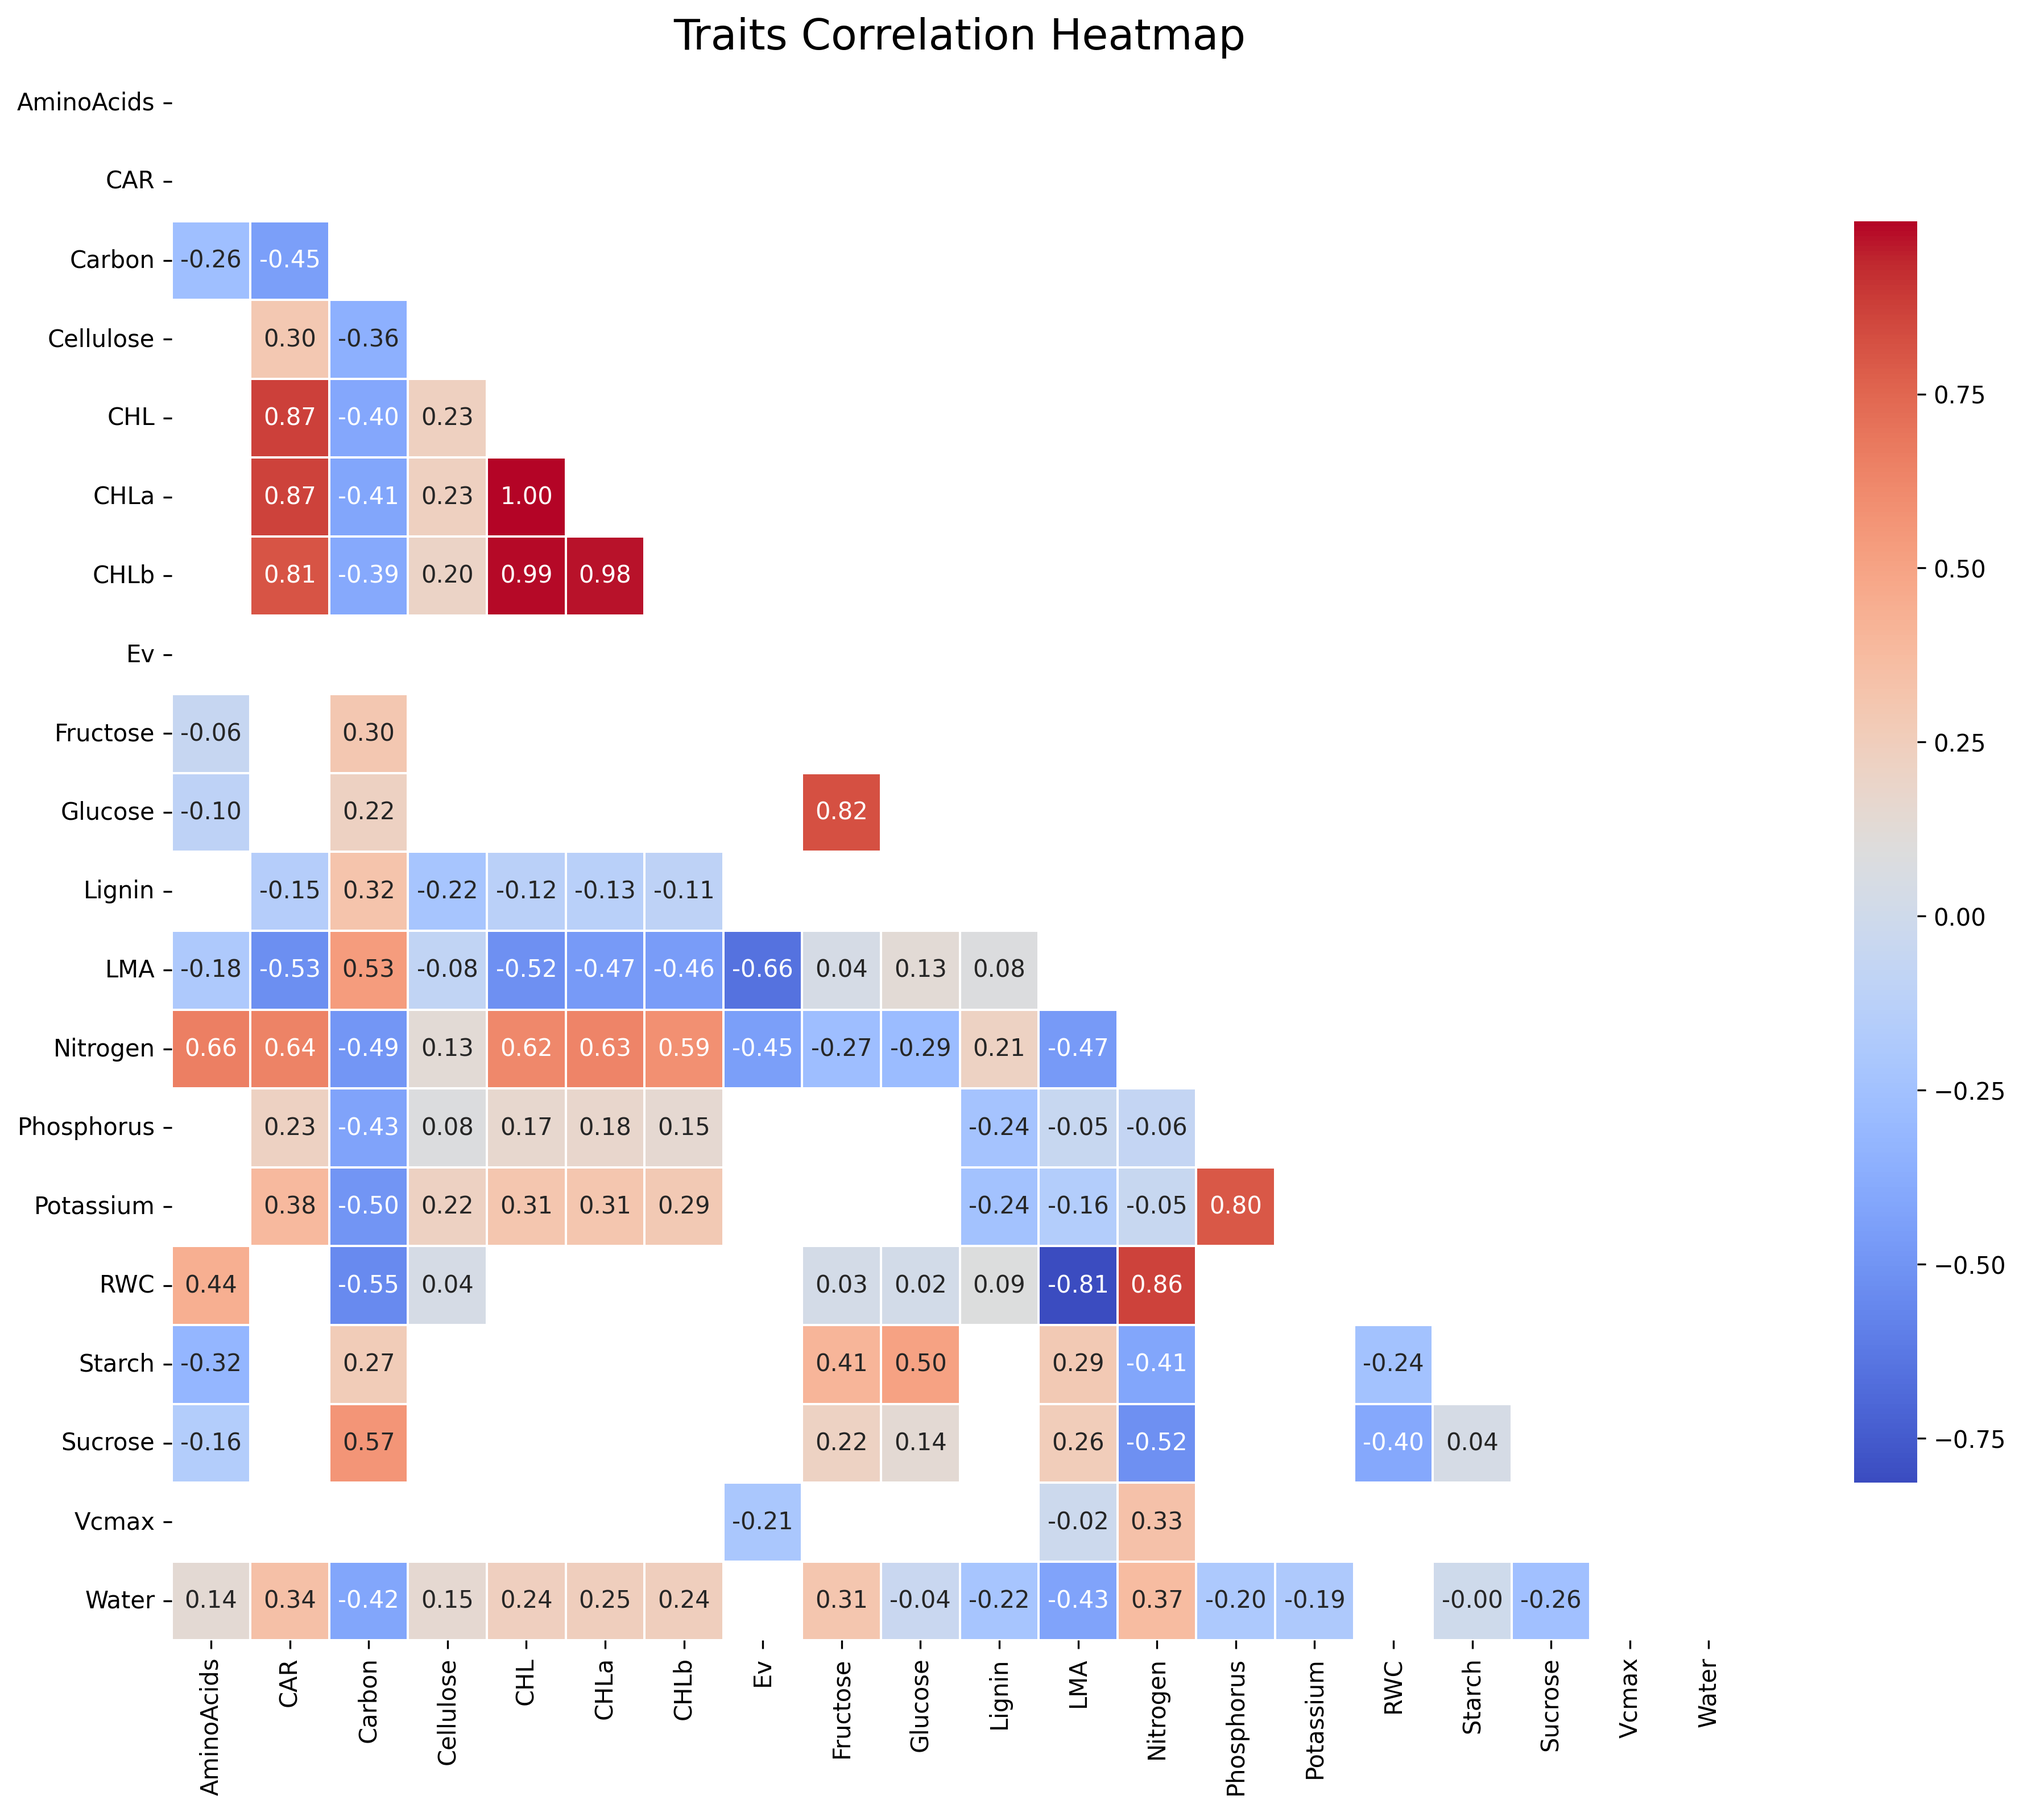
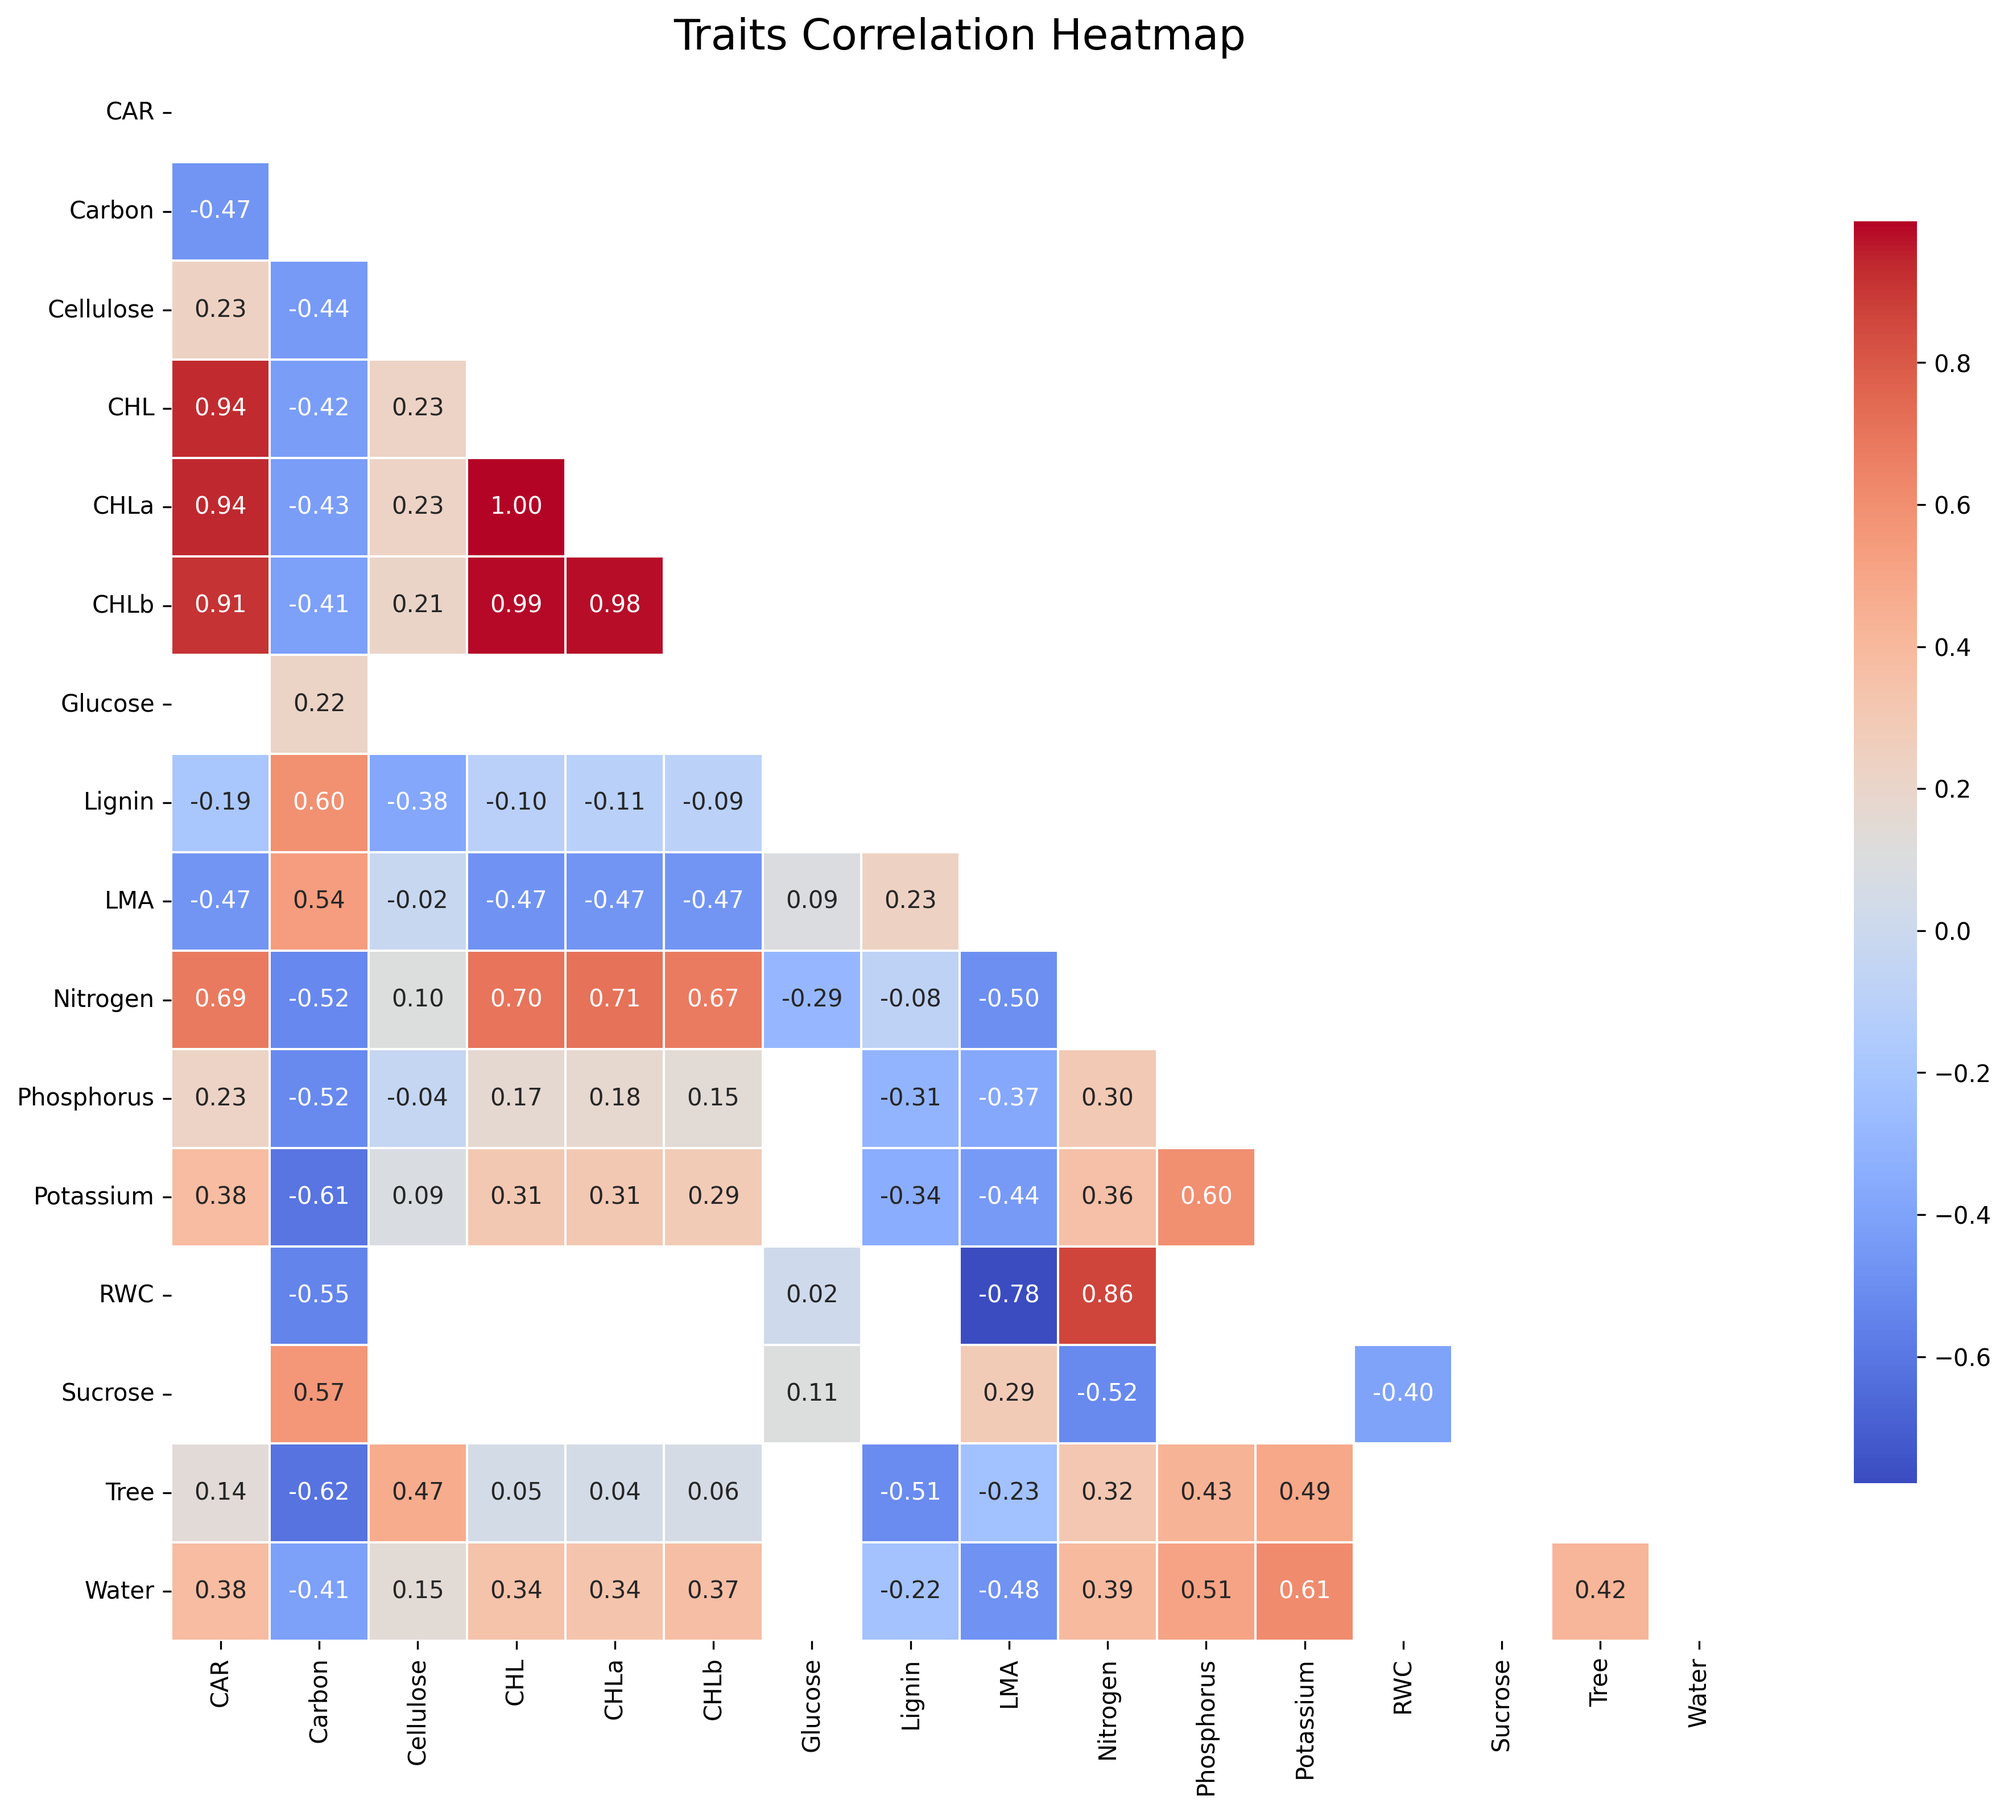
optimize the default logic for output_dims

diff --git a/data/src/visualize.py b/data/src/visualize.py
@@ -5,7 +5,7 @@ import numpy as np
 
 
 # 读取CSV文件
-file_path = '../with_label/AllTraitsFilted.csv'  # 请替换为你的CSV文件路径
+file_path = '../with_label/lma_good/trait.csv'  # 请替换为你的CSV文件路径
 data = pd.read_csv(file_path)
 
 # 选择数值列
@@ -23,6 +23,6 @@ sns.heatmap(correlation_matrix, mask=mask, cmap='coolwarm', annot=True, fmt=".2f
             square=True, cbar_kws={"shrink": .8}, linewidths=0.5)
 
 plt.title('Traits Correlation Heatmap', fontsize=18)
-plt.savefig('C:/file/Research/projects/TCAF/fig/correlation_heatmap.png',
+plt.savefig('../../fig/correlation_heatmap.png',
             bbox_inches='tight', dpi=300)
 plt.show()

diff --git a/downstream/src/helper_downstream.py b/downstream/src/helper_downstream.py
@@ -39,6 +39,7 @@ def init_model(
     )
     embedding = ManualEmbedding(encoder.embed_dim, patch_size, proj_type=proj_type) if preprocess == 'manual' \
         else AutomaticEmbedding(encoder.embed_dim, patch_size, proj_type=proj_type)
+    output_dims.update({tk: 1 for tk in tasks if tk not in output_dims})  # 默认输出维度为1
     processor = Processor(tasks=tasks, input_dim=encoder.embed_dim, output_dims=output_dims)
 
     def init_weights(m):

diff --git a/eval/plsr/plsr_train.py b/eval/plsr/plsr_train.py
@@ -70,6 +70,7 @@ def main(args):
 
     # --
     resampler = FilterResampler()
+    output_dims.update({tk: 1 for tk in tasks if tk not in output_dims})  # 默认输出维度为1
     if not isinstance(spec_path, dict):
         dataset, train_loader, test_loader = make_dataset(spec_path, trait_path, tasks, output_dims, split_ratio,
                                                           batch_size, pin_mem, num_workers)
